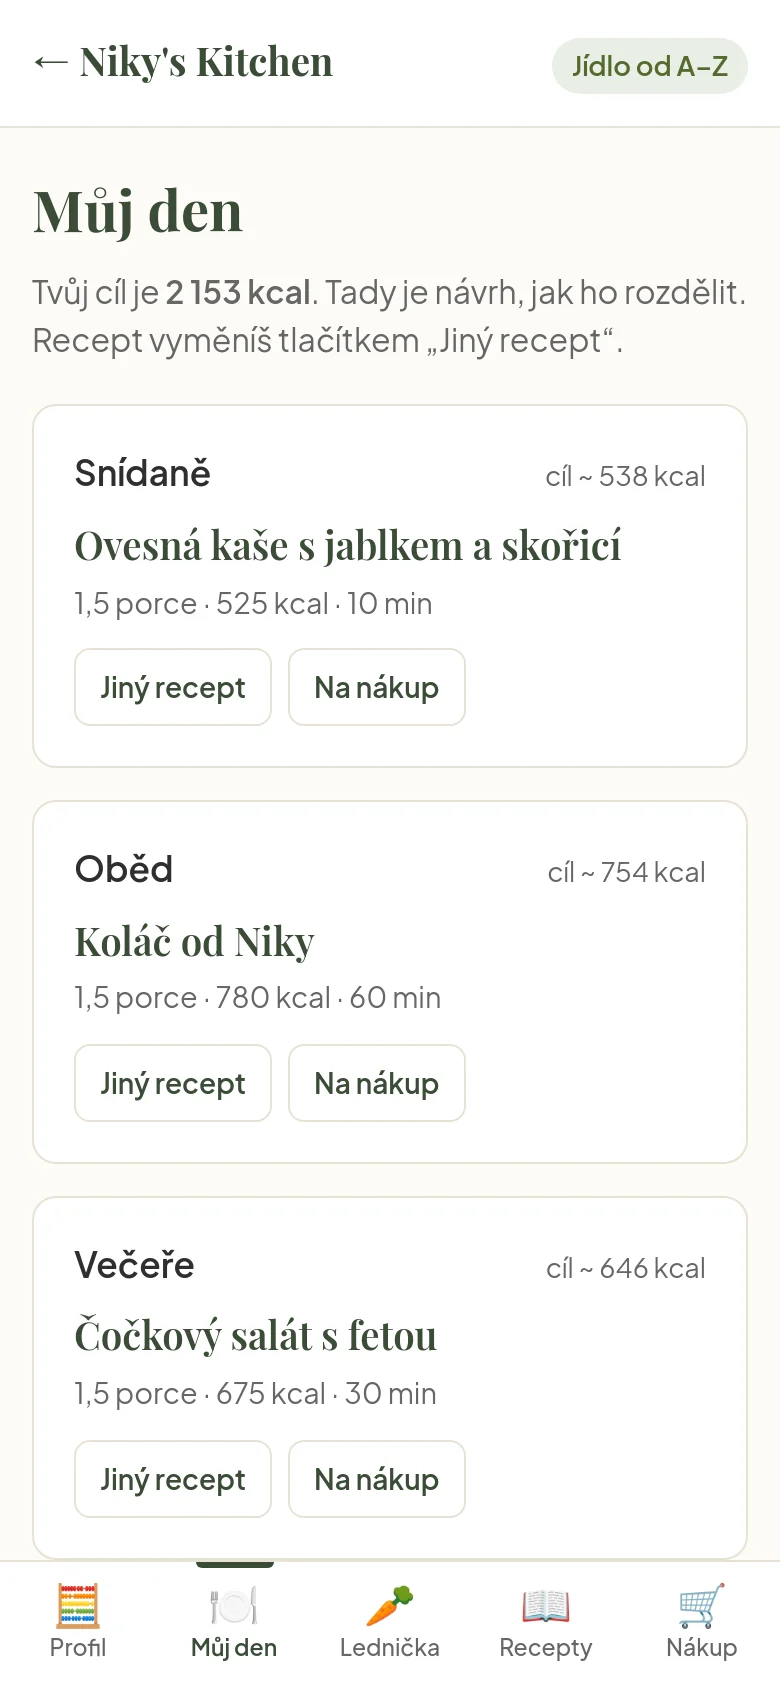
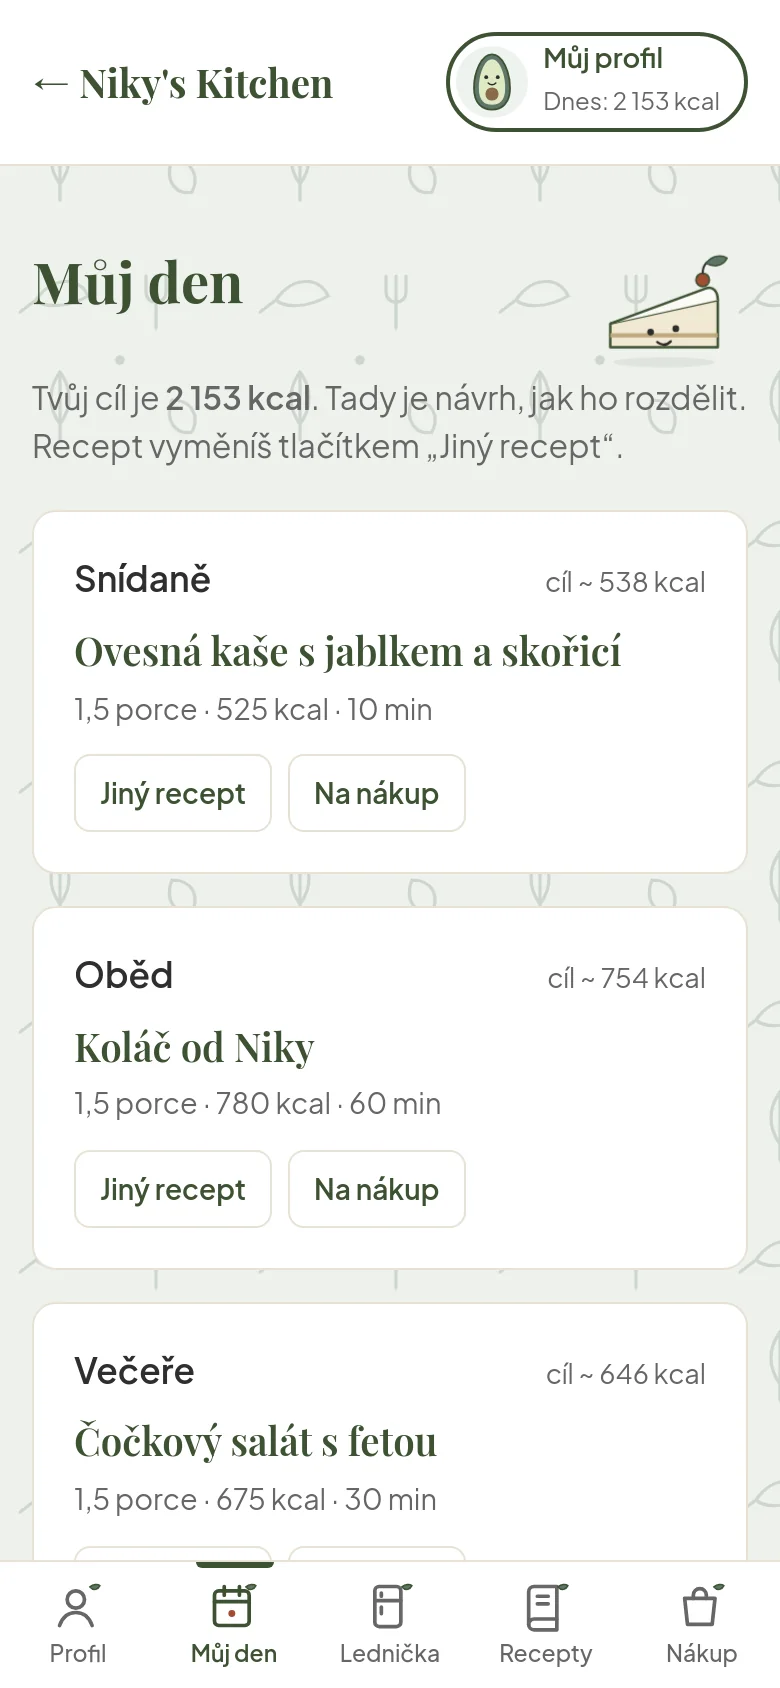
README: nový vzhled, fotky receptů a animace (GIF)

diff --git a/README.md b/README.md
@@ -67,7 +67,11 @@ Appka bude časem přímo součástí webu. Už teď si bere recepty a články 
 
 | Profil | Můj den | Lednička | Recepty |
 |---|---|---|---|
-| ![Profil: výpočet denního příjmu](docs/ukazky/appka-profil.webp) | ![Můj den: rozdělení příjmu do jídel a návrh receptů](docs/ukazky/appka-den.webp) | ![Lednička: recepty podle surovin, které máš doma](docs/ukazky/appka-lednicka.webp) | ![Recepty: přehled s filtrem a hledáním](docs/ukazky/appka-recepty.webp) |
+| ![Profil: výběr avatara a výpočet denního příjmu](docs/ukazky/appka-profil.webp) | ![Můj den: rozdělení příjmu do jídel a návrh receptů](docs/ukazky/appka-den.webp) | ![Lednička: recepty podle surovin, které máš doma](docs/ukazky/appka-lednicka.webp) | ![Recepty: přehled s filtrem a hledáním](docs/ukazky/appka-recepty.webp) |
+
+Vzhled je stejný jako na webu Niky's Kitchen: vlastní ikonky, maskot Tečka, avatar v profilu a mikroanimace. Při odškrtnutí položky v nákupu se nakreslí fajfka a text se přeškrtne:
+
+![Animace: odškrtnutí položek v nákupním seznamu](docs/ukazky/animace-odskrtnuti.gif)
 ## Odkud se berou recepty
 
 Recepty a články jsou uložené v **databázi PostgreSQL** projektu Niky's Kitchen (repozitář `nikys-kitchen-web`). Web z nich při sestavení vyrobí soubor `api/appka.json` a appka si ho při startu stáhne.
